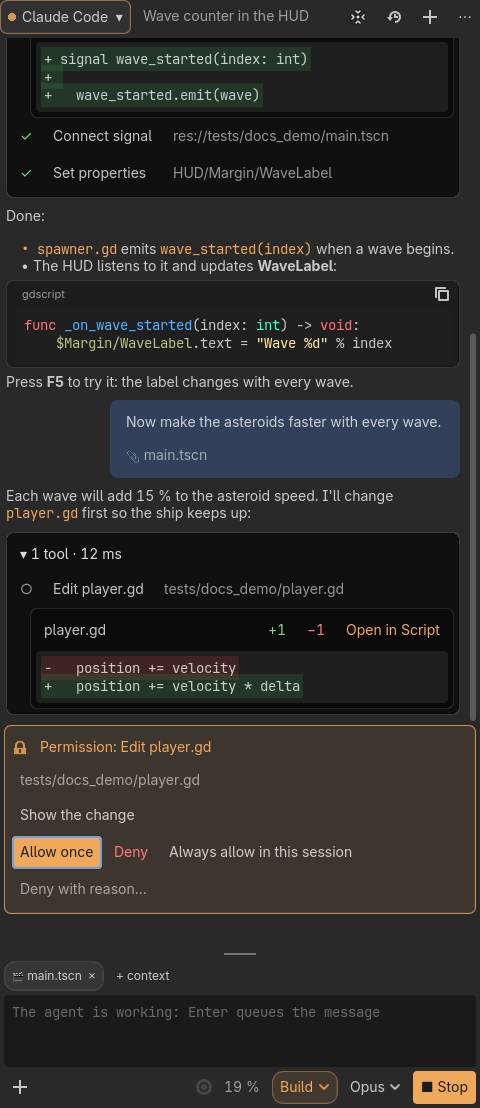
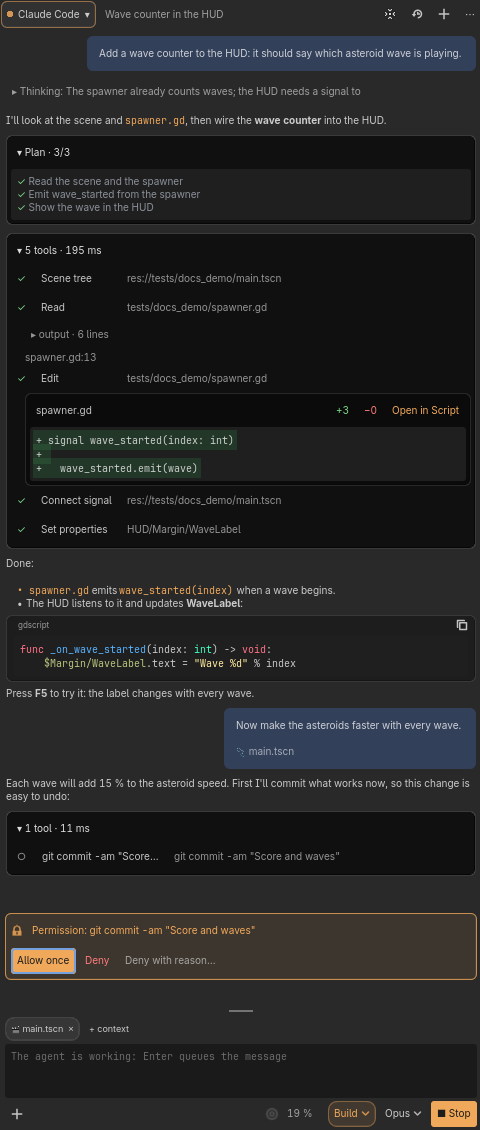
Recorrido de capturas: tarjeta de permiso y turn-marks (m12-60)
La tarjeta de permiso de las capturas pedía editar player.gd en Construir, que desde m11-71 edita archivos sin preguntar: docs_shots.gd (y tests/ux_tour.sh, que lo usa) fallaban con «no apareció la tarjeta de permiso». El turno de docs_build.json y docs_build_es.json pide ahora un git commit (un comando de shell que cambia algo: no es de la allowlist ni de solo lectura, que desde m11-76 se rechazan sin tarjeta), y el texto del agente acompaña.

ux_tour.sh hace del proyecto copiado un repo de git propio, como docs_shots.sh: sin eso turn-marks fallaba con «sin snapshots de git».

docs/images/en|es/permission.png regeneradas con docs_shots.sh (solo esas: las demás también salieron distintas, pero refrescarlas no es de esta tarea) y el texto alternativo del README en los dos idiomas. ux_tour.sh es/en y docs_shots.sh en/es: 0 fallas.

diff --git a/README.es.md b/README.es.md
@@ -97,7 +97,7 @@ Escribí lo que querés y tocá **Planificar** (o escribí `/plan …`): el agen
 
 Cada acción que cambia algo pregunta antes, con una tarjeta en el chat: permitirla una vez, por el resto de la sesión, o denegarla. **Settings → Permisos** define qué permite, pregunta o deniega cada modo, por grupo de herramientas.
 
-<img src="docs/images/es/permission.png" alt="Una tarjeta de permiso para editar player.gd, con su diff y los botones Siempre en esta sesión, Permitir una vez y Denegar" width="360">
+<img src="docs/images/es/permission.png" alt="Una tarjeta de permiso en modo Construir para un git commit que el agente quiere correr, con los botones Permitir una vez, Denegar y Denegar con motivo" width="360">
 
 ![La matriz de permisos en Settings: una fila por grupo de herramientas, una columna por modo](docs/images/es/settings.png)
 

diff --git a/README.md b/README.md
@@ -97,7 +97,7 @@ Write what you want and press **Plan** (or type `/plan …`): the agent answers 
 
 Each action that changes something asks first, in a card in the chat: allow it once, for the rest of the session, or deny it. **Settings → Permissions** sets what each mode allows, asks or denies, per group of tools.
 
-<img src="docs/images/en/permission.png" alt="A permission card for editing player.gd, with its diff and the Always allow in this session, Allow once and Deny buttons" width="360">
+<img src="docs/images/en/permission.png" alt="A permission card in Build mode for a git commit the agent wants to run, with the Allow once, Deny and Deny with reason buttons" width="360">
 
 ![The permission matrix in Settings: one row per group of tools, one column per mode](docs/images/en/settings.png)
 
